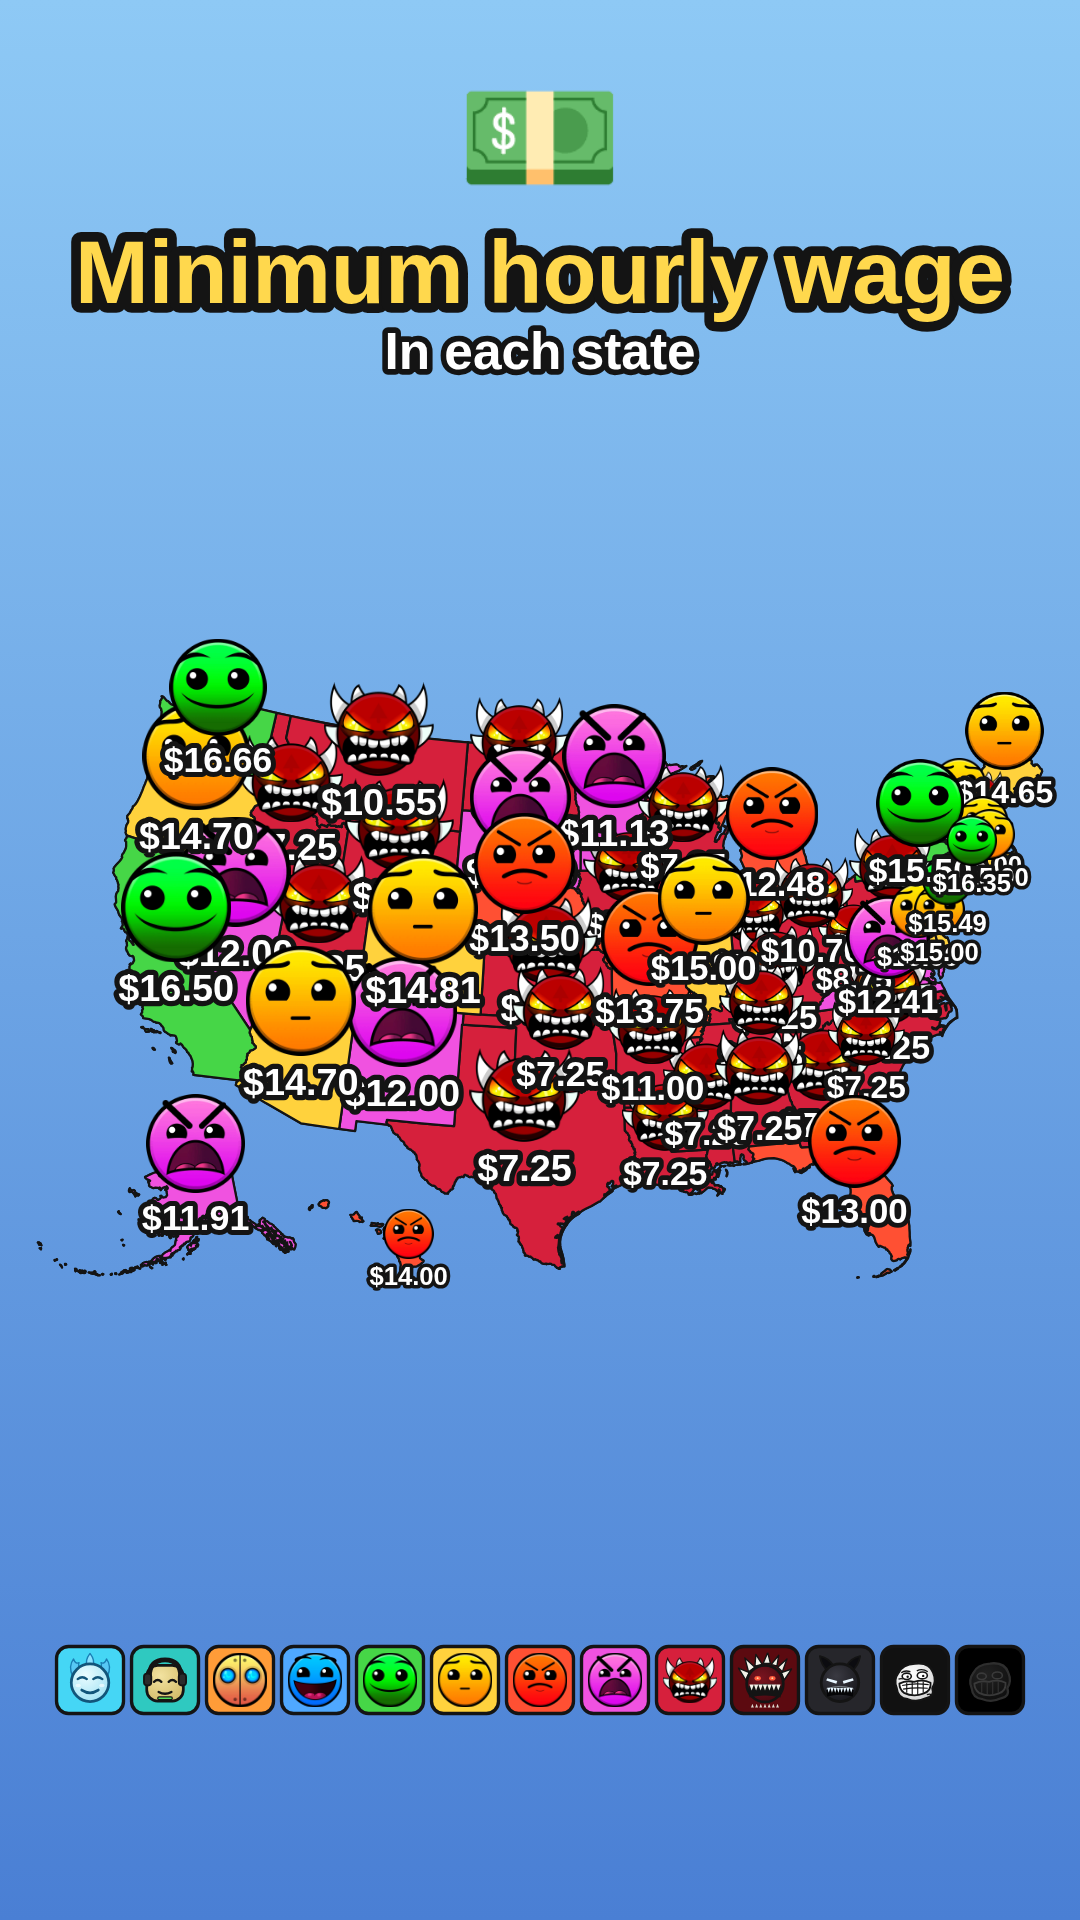
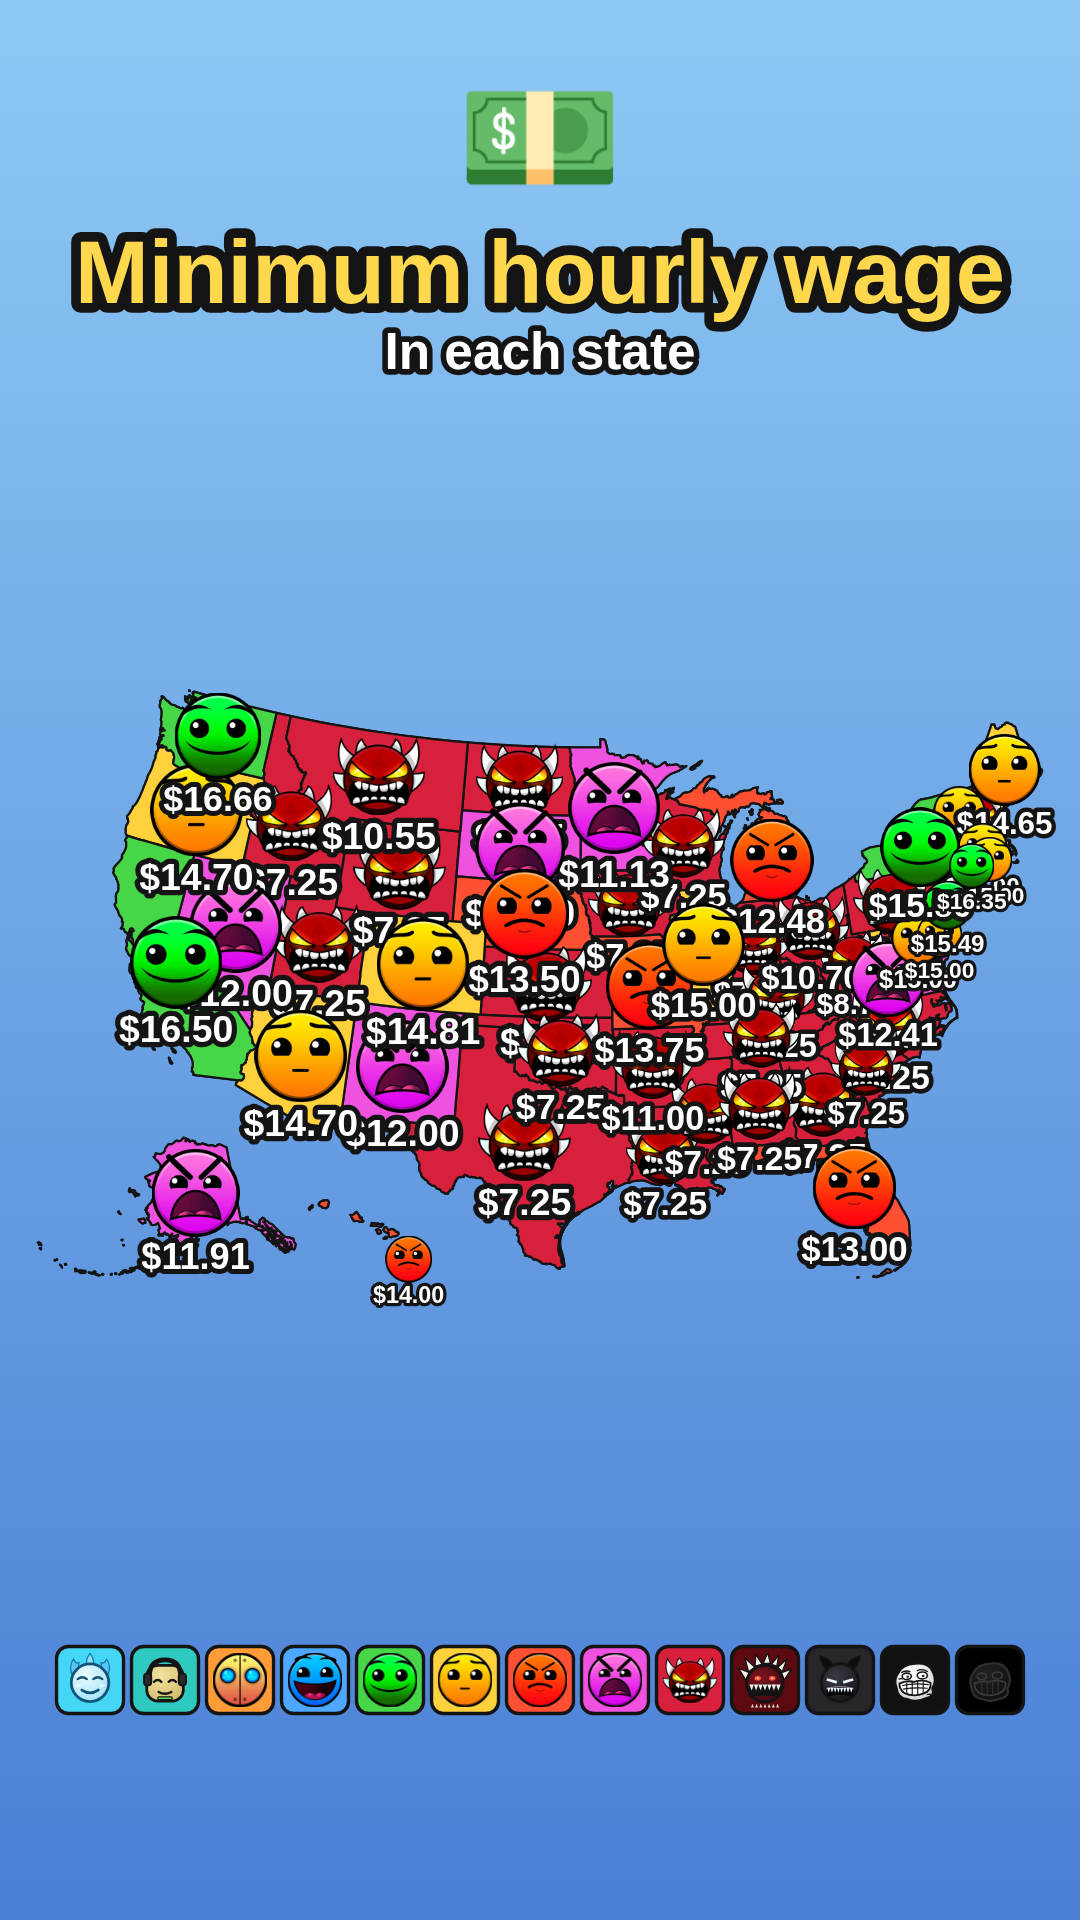
Center difficulty faces inside regions, IG style
Faces were anchored above the region centroid with the label at the
centroid; the reference posts center the face on the region with the
value directly beneath it. Also scale icon size by region area with
per-map curves — gentle for US states, aggressive for world countries
(China big, Israel tiny) — and refresh the README example renders.

Claude-Session: https://claude.ai/code/session_019CTvynWu779YMSq1u2xVns

Changed region(s): [[0.0917, 0.3125, 0.9778, 0.6875]]

diff --git a/js/app.js b/js/app.js
@@ -15,7 +15,9 @@
       object: 'states',
       preprojected: true,
       exclude: [],
-      iconFactor: 1,
+      iconFactor: 0.9,
+      areaPow: 0.26,          // states are similar in size — scale gently
+      areaClamp: [0.55, 1.12],
       aliases: window.NAMES.STATE_ALIASES
     },
     world: {
@@ -24,6 +26,8 @@
       preprojected: false,
       exclude: ['Antarctica', 'Fr. S. Antarctic Lands'],
       iconFactor: 0.62,
+      areaPow: 0.38,          // countries span orders of magnitude — scale hard
+      areaClamp: [0.3, 1.6],
       aliases: window.NAMES.COUNTRY_ALIASES
     }
   };
@@ -222,6 +226,8 @@
 
   function rebuildProjection() {
     const cfg = MAP_CONFIGS[$('map-select').value];
+    const areaPow = cfg.areaPow || 0.3;
+    const areaClamp = cfg.areaClamp || [0.5, 1.3];
     const L = layout();
     const extent = [[L.mapPad, L.mapTop], [L.W - L.mapPad, L.mapBottom]];
     const fc = { type: 'FeatureCollection', features: features };
@@ -242,8 +248,9 @@
     areas.sort(function (a, b) { return a - b; });
     const median = areas[Math.floor(areas.length / 2)] || 1;
     Object.keys(areaScale).forEach(function (k) {
-      const s = Math.pow(areaScale[k] / median, 0.3);
-      areaScale[k] = Math.min(1.2, Math.max(0.55, s));
+      // IG style: big regions get big faces, tiny ones get tiny faces
+      const s = Math.pow(areaScale[k] / median, areaPow);
+      areaScale[k] = Math.min(areaClamp[1], Math.max(areaClamp[0], s));
     });
   }
 
@@ -376,14 +383,16 @@
       const az = areaScale[r.name] || 1;
       const s = iconSize * az * pop;
       const img = iconImgs[r.tier];
+      let h = s;
       if (img && img.width) {
-        const h = s * img.height / img.width; // demon faces are wider than tall
-        ctx.drawImage(img, c[0] - s / 2, c[1] - h, s, h);
+        h = s * img.height / img.width; // demon faces are wider than tall
+        // face centered on the region, IG style
+        ctx.drawImage(img, c[0] - s / 2, c[1] - h / 2, s, h);
       }
-      const lz = labelSize * Math.sqrt(az);
+      const lz = labelSize * Math.pow(az, 0.7);
       if (lz > 2) {
         const label = $('label-prefix').value + r.display + $('label-suffix').value;
-        outlinedText(label, c[0], c[1] + lz * 0.75 * pop, lz * pop, '#ffffff', 0.28);
+        outlinedText(label, c[0], c[1] + (h / 2 + lz * 0.62) * pop, lz * pop, '#ffffff', 0.28);
       }
     }
 
